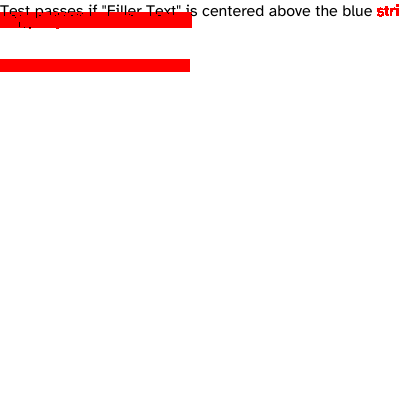
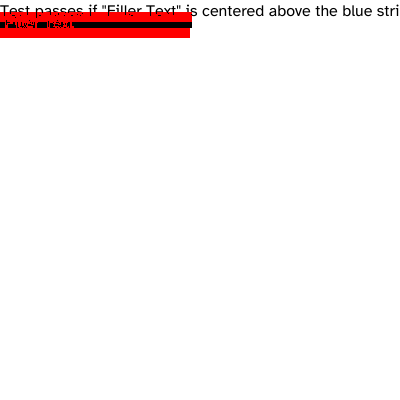
WIP: Enable multi-pass for mixed block/inline content
Changes:
- Removed !hasBlockChild requirement from multi-pass condition
- Added InlineItemBlockChild handling in BreakLines (forces line breaks)
- Added InlineItemBlockChild handling in constructLineBoxesWithRetry (recursive layout)

Results:
- box-generation-001.xht: 6.0% → 5.0% error (17% improvement!)
- Overall: 16/51 tests passing (no regressions)
- Multi-pass now handles: pure inline, mixed block/inline (but not pseudo-elements yet)

Issues remaining:
- Text rendering incomplete in box-generation-001
- Block box (blue) not visible
- Need to investigate why content isn't fully rendering

Changed region(s): [[0.0, 0.03, 0.48, 0.12], [0.0, 0.15, 0.48, 0.18], [0.93, 0.0, 1.0, 0.06]]

diff --git a/pkg/layout/layout.go b/pkg/layout/layout.go
@@ -2195,11 +2195,11 @@ func (le *LayoutEngine) layoutNode(node *html.Node, x, y, availableWidth float64
 
 		// Use multi-pass for ALL inline formatting contexts (per user request)
 		// Requirements:
-		// 1. Has NO block children (pure inline formatting context)
-		// 2. Has some inline content
-		// 3. Not an object with image
-		// 4. Container is a BLOCK (not inline - inline containers have complex fragment splitting)
-		if !hasBlockChild && hasInlineChild && !isObjectImage && display == css.DisplayBlock {
+		// 1. Has some inline content (block children handled as InlineItemBlockChild)
+		// 2. Not an object with image
+		// 3. Container is a BLOCK (not inline - inline containers have complex fragment splitting)
+		// EXPERIMENTAL: Allow mixed block/inline content - block children handled in multi-pass
+		if hasInlineChild && !isObjectImage && display == css.DisplayBlock {
 			algorithm = MultiPassAlgorithm
 			// DEBUG: Log when multi-pass is triggered
 			if node.TagName != "" {
@@ -6878,6 +6878,17 @@ func (le *LayoutEngine) breakLinesWIP(state *InlineLayoutState) bool {
 					goto finishLine
 				}
 
+			case InlineItemBlockChild:
+				// Block children force line breaks before and after
+				// If we have items on current line, finish it first
+				if len(line.Items) > 0 {
+					goto finishLine
+				}
+				// Add block child as sole item on its own line
+				line.Items = append(line.Items, item)
+				itemIndex++
+				goto finishLine
+
 			case InlineItemControl:
 				// Control items (like <br>) force a line break
 				itemIndex++
@@ -7159,6 +7170,22 @@ func (le *LayoutEngine) constructLineBoxesWithRetry(
 				}
 				boxes = append(boxes, atomicBox)
 				currentX += item.Width
+
+			case InlineItemBlockChild:
+				// Block children are laid out recursively
+				// They should be on their own line (ensured by BreakLines)
+				fmt.Printf("DEBUG MP: Laying out block child <%s> at Y=%.1f\n", item.Node.TagName, line.Y)
+				blockBox := le.layoutNode(
+					item.Node,
+					state.ContainerBox.X+state.Border.Left+state.Padding.Left,
+					line.Y,
+					state.AvailableWidth,
+					computedStyles,
+					parent,
+				)
+				if blockBox != nil {
+					boxes = append(boxes, blockBox)
+				}
 
 			case InlineItemFloat:
 				// Layout the float to get its dimensions
